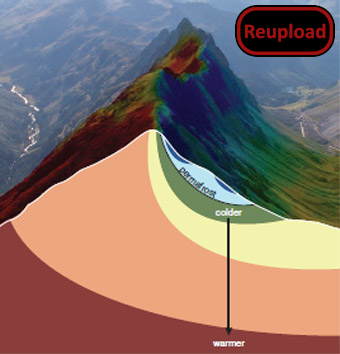
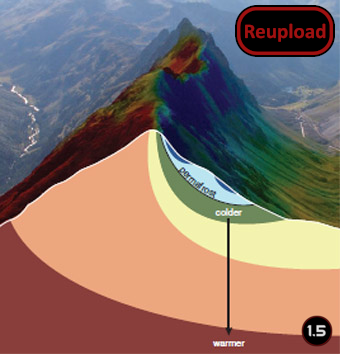
Mod updated for 1.5 and passed autotests

Changed region(s): [[0.8824, 0.8701, 1.0, 0.9944]]

diff --git a/Source/MountainTemp/MountainTemp.cs b/Source/MountainTemp/MountainTemp.cs
@@ -19,7 +19,7 @@ public struct NaturalRoom
 }
 
 [StaticConstructorOnStartup]
-public class MountainTemp : MapComponent
+public class MountainTemp(Map map) : MapComponent(map)
 {
     // Constant underground temperature
     //public const float UNDERGROUND_TEMPERATURE = 0.0f;
@@ -30,19 +30,14 @@ public class MountainTemp : MapComponent
     // Constant equalization factor
     private const float EqualizationFactor = 120.0f * 90.0f * 6f;
 
-    private readonly bool enabled;
+    private readonly bool enabled = map.Biome.defName != "BMT_EarthenDepths";
 
     // Constant invalid control temp (no active temperature controllers)
     //public const int InvalidControlTemp = -999999;
 
     // This will house all the rooms in the world which have
     // natural roofs
-    private List<NaturalRoom> naturalRooms = new List<NaturalRoom>();
-
-    public MountainTemp(Map map) : base(map)
-    {
-        enabled = map.Biome.defName != "BMT_EarthenDepths";
-    }
+    private List<NaturalRoom> naturalRooms = [];
 
     // Target underground temperature
     private float TargetTemperature
@@ -82,7 +77,7 @@ public class MountainTemp : MapComponent
     private void FetchNaturalRooms()
     {
         // Clear our list of natural rooms
-        naturalRooms = new List<NaturalRoom>();
+        naturalRooms = [];
 
         // Get the list of rooms from the region grid
         var allRooms = map.regionGrid.allRooms;

diff --git a/README.md b/README.md
@@ -25,12 +25,13 @@ Extreme temperatures can still effect rooms deep underground through the passage
 
 -  See if the the error persists if you just have this mod and its requirements active.
 -  If not, try adding your other mods until it happens again.
--  Post your error-log using https://steamcommunity.com/workshop/filedetails/?id=818773962]HugsLib and command Ctrl+F12
+-  Post your error-log using https://steamcommunity.com/workshop/filedetails/?id=818773962]HugsLib or the standalone https://steamcommunity.com/sharedfiles/filedetails/?id=2873415404]Uploader and command Ctrl+F12
 -  For best support, please use the Discord-channel for error-reporting.
 -  Do not report errors by making a discussion-thread, I get no notification of that.
 -  If you have the solution for a problem, please post it to the GitHub repository.
+-  Use https://github.com/RimSort/RimSort/releases/latest]RimSort to sort your mods
 
 
 
+https://steamcommunity.com/sharedfiles/filedetails/changelog/2288623569]![Image](https://img.shields.io/github/v/release/emipa606/MountainTemp?label=latest%20version&style=plastic&color=9f1111&labelColor=black)
 
-https://steamcommunity.com/sharedfiles/filedetails/changelog/2288623569]Last updated 2023-06-10
